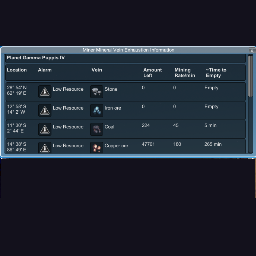
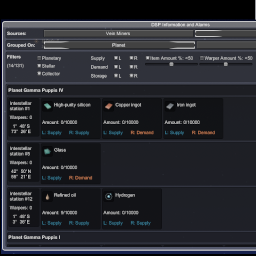
Bumped version to 0.5 for MineralExhaustionNotifier. Ready for realase. Updated screenshots, readme and changelog. Reset stat data on new game.

diff --git a/MineralExhaustionNotifier/Statistics/DSPStatistics.cs b/MineralExhaustionNotifier/Statistics/DSPStatistics.cs
@@ -10,7 +10,7 @@ namespace DSPPlugins_ALT.Statistics
     {
         class NotificationTiming { public long lastNotification; public long lastUpdated; };
 
-        //public static Dictionary<string,List<MinerNotificationDetail>> notificationList = new Dictionary<string,List<MinerNotificationDetail>>();
+        public event Action<long> onStatSourcesUpdated;
         Dictionary<int, NotificationTiming> notificationTimes = new Dictionary<int, NotificationTiming>();
         public bool triggerNotification = false;
 
@@ -23,6 +23,16 @@ namespace DSPPlugins_ALT.Statistics
 
         public static List<MinerNotificationDetail> minerStats = new List<MinerNotificationDetail>();
         public static List<StationStat> logisticsStationStats = new List<StationStat>();
+
+        public void Reset()
+        {
+            lastTime = 0;
+            minerStats.Clear();
+            logisticsStationStats.Clear();
+            notificationTimes.Clear();
+            triggerNotification = false;
+        }
+
 
         public void updateNotificationTimes(long time)
         {
@@ -63,24 +73,25 @@ namespace DSPPlugins_ALT.Statistics
             }
         }
 
-        public void prioritizeList()
-        {/*
-            foreach (var planet in DSPStatistics.notificationList)
-            {
-                planet.Value.Sort(delegate (MinerNotificationDetail x, MinerNotificationDetail y)
-                {
-                    if (x.veinAmount == y.veinAmount) return 0;
-                    else if (x.veinAmount < y.veinAmount) return -1;
-                    else if (x.veinAmount > y.veinAmount) return 1;
-                    return 0;
-                });
-            }
-            */
-        }
+        private GameDesc lastGameDesc = null;
 
+        public bool IsDifferentGame()
+        {
+            if (DSPGame.GameDesc != lastGameDesc)
+            {
+                lastGameDesc = DSPGame.GameDesc;
+                return true;
+            }
+            return false;
+        }
 
         public void onGameData_GameTick(long time, GameData gameData)
         {
+            if (IsDifferentGame())
+            {
+                Reset();
+            }
+
             if (time - lastTime < (MineralExhaustionNotifier.timeStepsSecond * MineralExhaustionNotifier.CheckPeriodSeconds.Value)) { return; }
             lastTime = time;
 
@@ -112,14 +123,11 @@ namespace DSPPlugins_ALT.Statistics
             }*/
 
             updateNotificationTimes(time);
-            prioritizeList();
             if (onStatSourcesUpdated != null)
             {
                 onStatSourcesUpdated(time);
             }
         }
-
-        public event Action<long> onStatSourcesUpdated;
 
         public void stationStatUpdate(StationComponent stationComponent, PlanetFactory factory)
         {

diff --git a/MineralExhaustionNotifier/GUI/MinerNotificationUI.cs b/MineralExhaustionNotifier/GUI/MinerNotificationUI.cs
@@ -292,7 +292,7 @@ namespace DSPPlugins_ALT.GUI
                 Filter<MinerNotificationDetail> miningRateFilter = new Filter<MinerNotificationDetail>()
                 {
                     name = "miningRateFilter",
-                    enabled = true,
+                    enabled = false,
                     value = 100,
                     onGUI = (filter) =>
                     {
@@ -314,7 +314,7 @@ namespace DSPPlugins_ALT.GUI
                 Filter<MinerNotificationDetail> miningRateSummedFilter = new Filter<MinerNotificationDetail>()
                 {
                     name = "miningRateSummedFilter",
-                    enabled = true,
+                    enabled = false,
                     value = 3000,
                     onGUI = (filter) =>
                     {
@@ -567,7 +567,7 @@ namespace DSPPlugins_ALT.GUI
             {
                 Filter<ResStationGroup> stationItemAmountFilter = new Filter<ResStationGroup>()
                 {
-                    enabled = true,
+                    enabled = false,
                     value = 50,
                     onGUI = (filter) =>
                     {

diff --git a/MineralExhaustionNotifier/Version.cs b/MineralExhaustionNotifier/Version.cs
@@ -7,9 +7,9 @@ namespace DSPPlugins_ALT
 {
     public class VersionInfo
     {
-        public const string VERSION = "0.4.1.0";
+        public const string VERSION = "0.5.0.0";
         public const string NAME = "MineralExhaustionNotifier";
-        public const string DESCRIPTION = "Tracks miners with problem conditions and shows you a information window with location, problem, and more.";
+        public const string DESCRIPTION = "Statistics on miners, logistic stations, and their items. Allow you to track problem conditions and shows you a information window with location, problem, and more.";
         public const string BEPINEX_FQDN_ID = "net.toppe.bepinex.dsp.veinexhaustion";
     }
 }

diff --git a/MineralExhaustionNotifier/changelog.md b/MineralExhaustionNotifier/changelog.md
@@ -1,5 +1,24 @@
 
-## MineralExhaustionNotified v0.4.1
+## MineralExhaustionNotified v0.5
+
+* Added information on logistic stations and their items as well
+* Filtering options. Filters are logically AND between the filters, and OR for the filter-local. Meaning you can do queries like: Stellar Stations AND Item % below 50%, AND Supply Remote.
+* Show information from the data source ( Vein Miners or Logistic Stations) broken down into different groups. Planet style as it was, or Resource based to get a better understanding of everything related to titanium.
+* Keybinding is now changed! You need to press an ALT-key before the user bindable key (default I)
+
+### Commit log from 'v0.4.1' to 'v0.5' (most recent changes are listed on top):
+
+25ce0a7 Bumped version to 0.5 for MineralExhaustionNotifier. Ready for realase. Updated screenshots, readme and changelog.
+5f2adcf Clearer filter text (less than sign). Show position of logistic stations. Additional filters. Now force to hold Alt-key + bound key to open.
+a33f31f More MinerNotificationUI cleanup. Initial UpdateSource logic in place. Removed old stat structure from DSPStatistics.
+f061b61 Tried to clean up the UI stuff. Precalc the filtered stuff on change, not every gui-cycle.
+dd1f86f Added filters on the main data sources. Adjustable from a filter-line in the GUI. Added logistic stations as a new source.
+e2fc22d Refactored some of the statistic methods to make it easier to introduce new sources.
+97cb50d Moved Thunderstore specific files to a subfolder. Use a shared included T4 template to generate manifest.json. Moved FDQN NS for plugins into Version.cs. Created a post-build release-prep script that updates a current release-folder. Currently for me that would be alekslt-$ProjectName-v0.0 with all the files that should be in the release.
+e216b34 Use a common Version.cs file for assemblyinfo, bepinex and manifest.json. Use T4 to generate manifest.json
+
+
+## MineralExhaustionNotifier v0.4.1
 
 * Fixes a nullpointer exception when starting a new game.
 
@@ -7,7 +26,7 @@
 e18721e Fixes a NPE in onGUI check for game state. Didn't guard some variables that was not initialized under intro guide. Bumps version to 0.4.1
 
 
-## MineralExhaustionNotified v0.4
+## MineralExhaustionNotifier v0.4
 
 * Fixed the issue where vein type was none for completely exhausted veins.
 * Added textures for the resources/veins and for the menu button.
@@ -21,7 +40,7 @@ b0a230e Added changelog.txt
 4522d09 Get last mined resource from signstate.icon. Draw resource texture and alarm texture. Cleanup.
 
 
-## MineralExhaustionNotified v0.3
+## MineralExhaustionNotifier v0.3
 
 * Fixed: The notification box was retriggered too often due to a flag not being set.
 
@@ -32,7 +51,7 @@ c0fc1d0 Update README.md
 
 
 
-## MineralExhaustionNotified v0.2
+## MineralExhaustionNotifier v0.2
 
 * Hide GUI when F11 - hidden is active.
 * Show GUI when in space/sail mode.
@@ -51,7 +70,7 @@ ceb3a7c Update README.md
 
 
 
-## MineralExhaustionNotified v0.1
+## MineralExhaustionNotifier v0.1
 
 First release. Works fine for me, but haven't been tested on other peoples computers yet. RFC.
 The plugin will periodically check the miners for an alarm (Low Power, Low Production Yield), and/or if they remaining mineral they can mine is low or none.

diff --git a/MineralExhaustionNotifier/README.md b/MineralExhaustionNotifier/README.md
@@ -15,7 +15,11 @@ After launching one time there will be a config file you can edit in %steamapps\
 
 ## How to use the Mineral Exhaustion Notifier mod ?
 
-The plugin will periodically check the miners for an alarm (Low Power, Low Production Yield), and/or if they remaining mineral they can mine is low or none.
+This mod gathers information on vein miners and logistic stations and present this information in a window allowing you to group by planet, resource and power network.
+
+You can also filter what is shown by several filters to drill down to what you want to know. Mining rate, logistic station - item stock, ++.
+
+The plugin will periodically check the miners for an alarm (Low Power, Low Production Yield), and/or if the remaining mineral they can mine is low or none.
 
 If a miner is detected with this condition a first time notification window will pop up, but afterwards only available through the toggle button (M) on lower right,
 or by pressing the hot key.
@@ -24,7 +28,7 @@ If you have cleared out all faulty miners by default this will allow a popup not
 
 #### Quick Key map (configurable) : 
 
-* I : Toggle Mineral Vein Information Window
+* ALT-I : Toggle Mineral Vein Information Window
 
 ## Screenshots
 
@@ -34,17 +38,17 @@ If you have cleared out all faulty miners by default this will allow a popup not
 
 ## Changes in last release
 
-### MineralExhaustionNotified v0.4
+### MineralExhaustionNotified v0.5
 
-* v0.4.1 - Fixes a nullpointer exception when starting a new game.
-
-* Fixed the issue where vein type was none for completely exhausted veins.
-* Added textures for the resources/veins and for the menu button.
-* Calculate estimated time until exhaustion for the veins.
+* Added information on logistic stations and their items as well
+* Filtering options. Filters are logically AND between the filters, and OR for the filter-local. Meaning you can do queries like: Stellar Stations AND Item % below 50%, AND Supply Remote.
+* Show information from the data source ( Vein Miners or Logistic Stations) broken down into different groups. Planet style as it was, or Resource based to get a better understanding of everything related to titanium.
+* Keybinding is now changed! You need to press an ALT-key before the user bindable key (default I)
 
 
 ## Verified working with game versions
 
+* Dyson Sphere Project 0.6.16.5780
 * Dyson Sphere Project 0.6.16.5759
 * Dyson Sphere Project 0.6.15.5706
 * Dyson Sphere Project 0.6.15.5686
